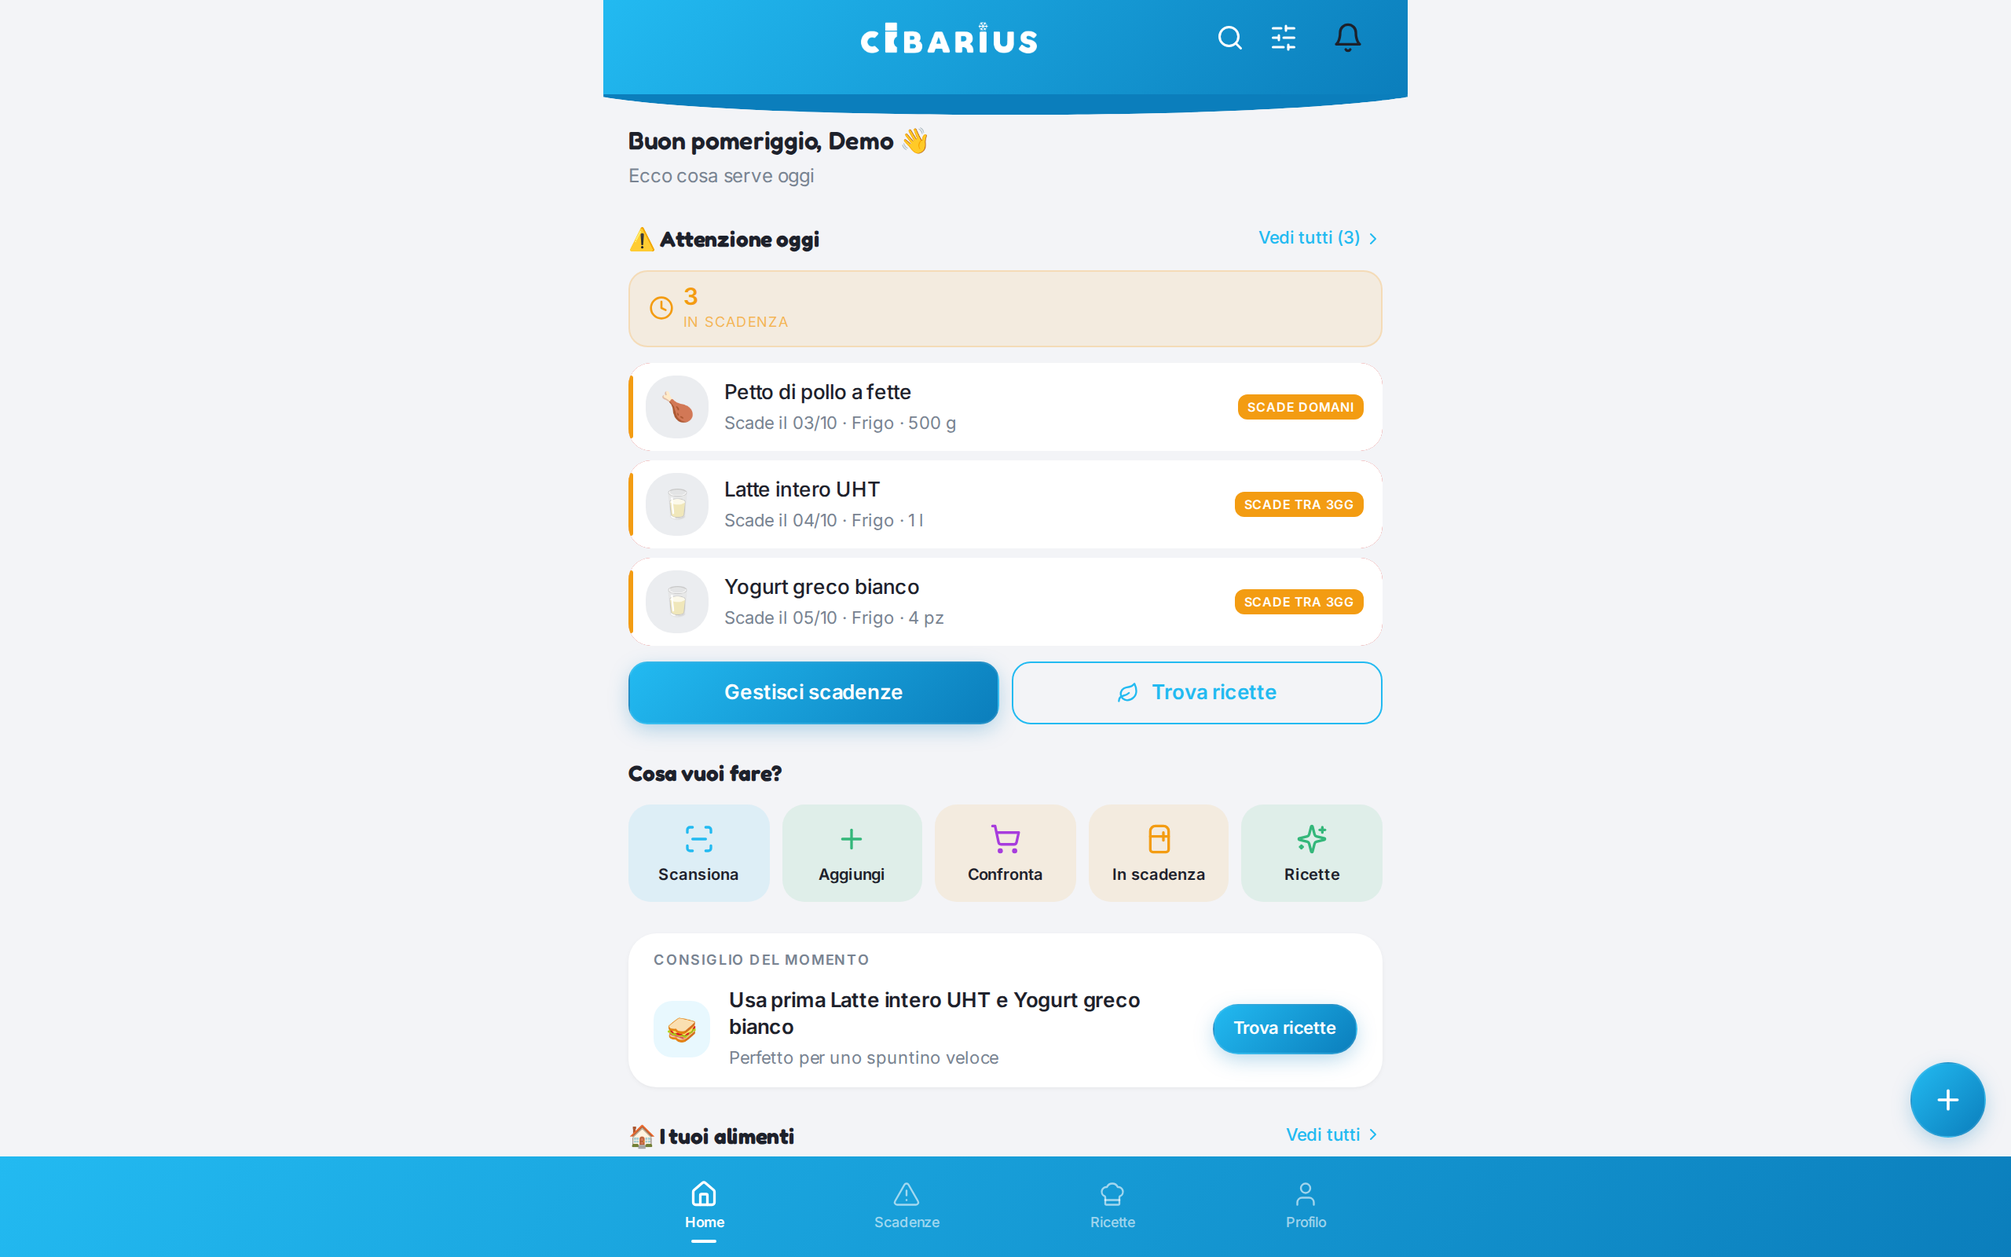
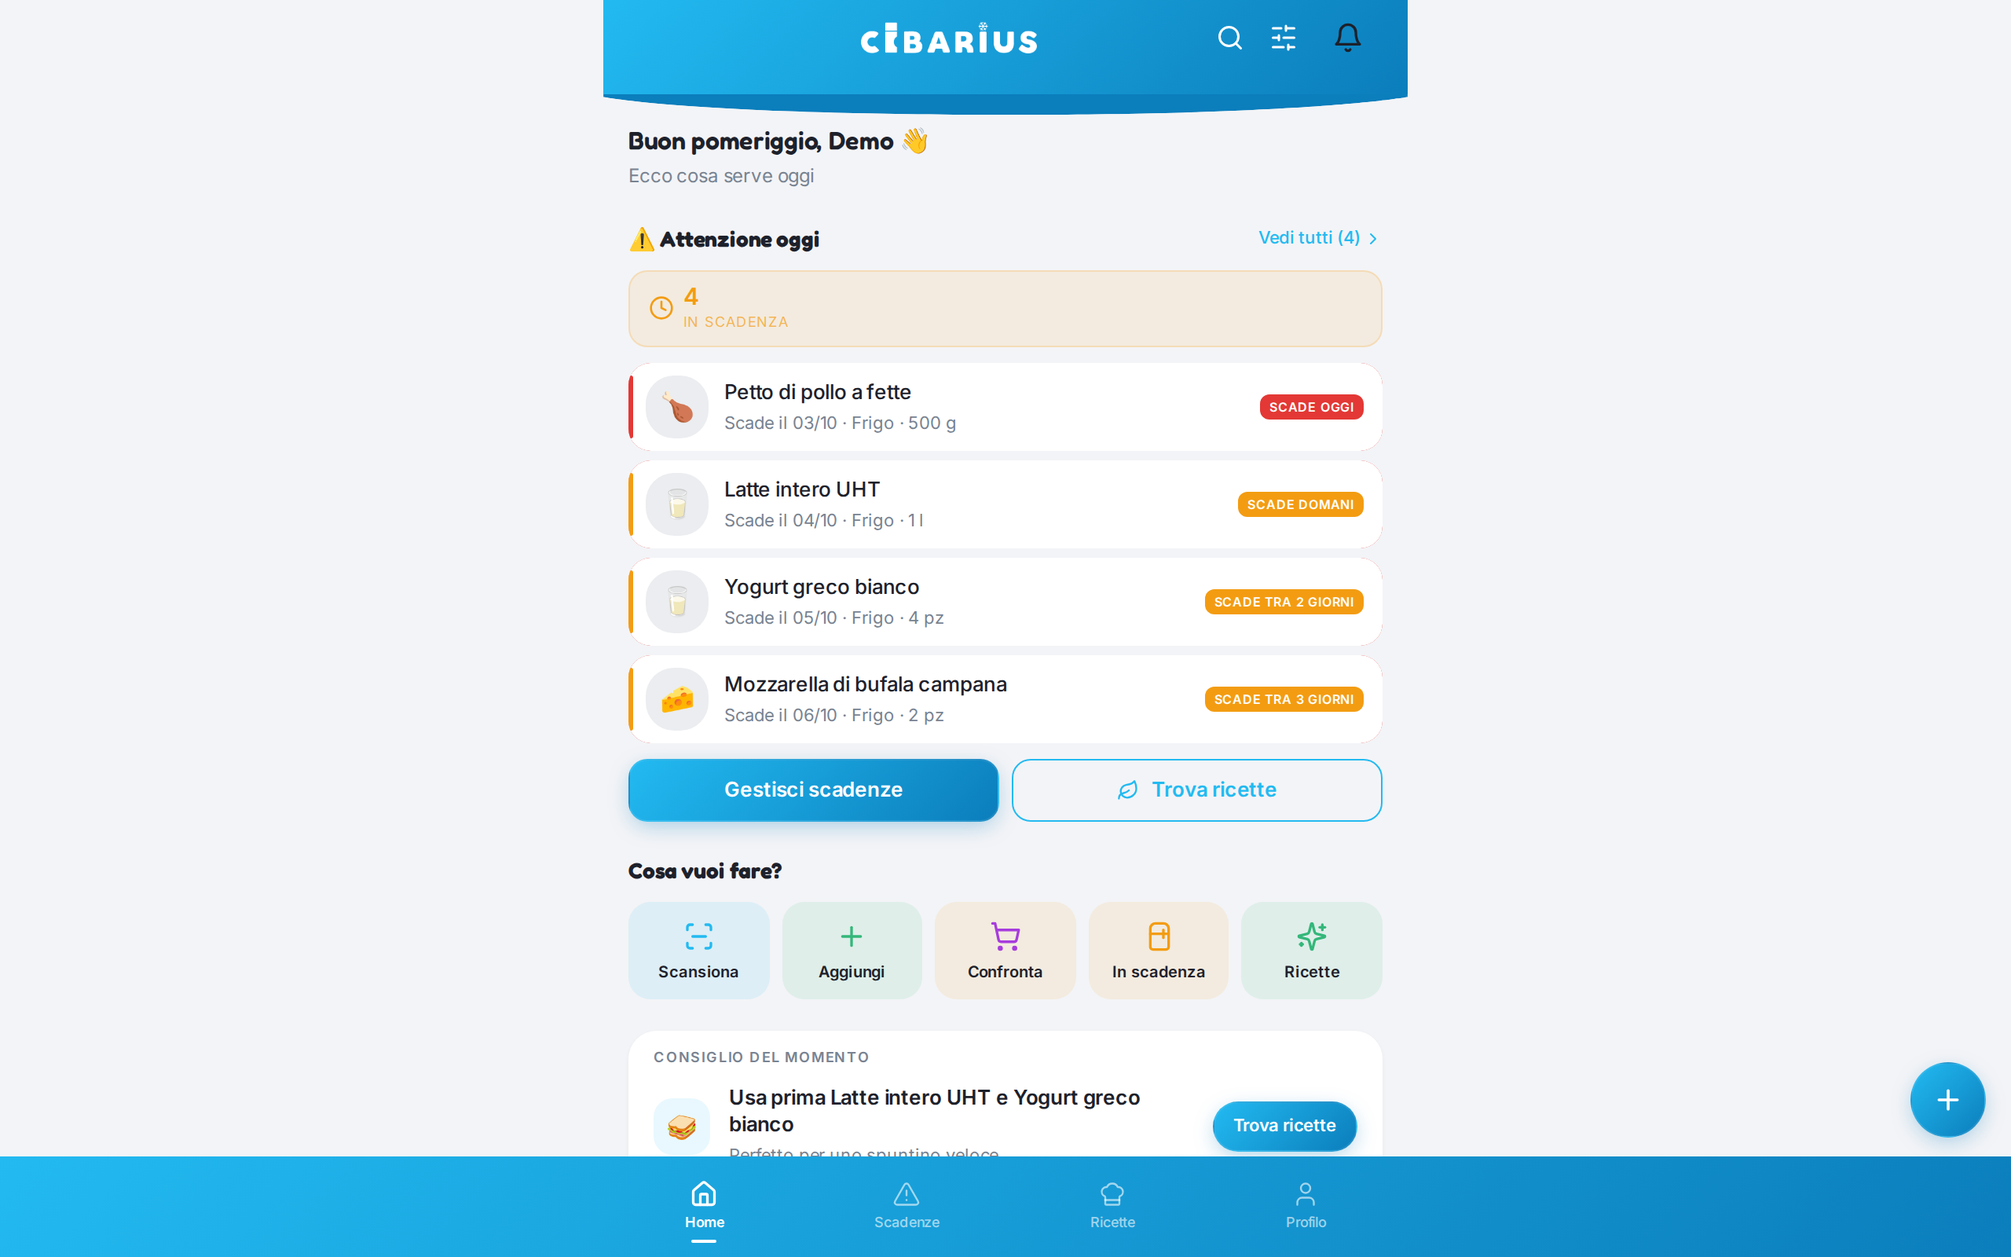
Report funzionale aggiornato dopo le correzioni
Gli screenshot vengono dall'ultimo giro, eseguito sulla versione corretta:
la registrazione atterra su /app, le scadenze raccontano la stessa storia in
tutte le viste, la ricerca trova i prodotti al singolare e il listino del sito
dichiara il piano Premium. La sezione finale elenca i quattro difetti con
causa e correzione, e le migliorie di UX ancora aperte.

diff --git a/report/REPORT_FUNZIONALE.md b/report/REPORT_FUNZIONALE.md
@@ -1,7 +1,12 @@
 # Report funzionale Cibarius
 
-Giro di prova automatico eseguito il 3 ottobre 2026 su `http://127.0.0.1:5182`
-(build di sviluppo Vite del branch `cursor/resend-api-key-e688`).
+Giro di prova automatico eseguito il 3 ottobre 2026 su `http://31.220.82.50:5182`
+(build di sviluppo Vite del branch `cursor/qa-report-funzionale-e688`).
+
+I difetti descritti qui sono stati corretti nello stesso ciclo di lavoro: gli
+screenshot allegati vengono dall'ultimo giro, quello sulla versione corretta.
+Dove il comportamento è cambiato lo trovi segnalato schermata per schermata, e
+il riepilogo delle correzioni è in fondo.
 
 ## 1. Introduzione
 
@@ -43,7 +48,7 @@ di console.
 
 **Esito complessivo: 30 schermate catturate, 0 errori di console e 0 errori
 JavaScript su tutto il percorso.** L'account di prova usato per questo report è
-`demo_tester_1791033759899@example.com`.
+`demo_tester_1791037187943@example.com`.
 
 ### Dati di prova
 
@@ -72,7 +77,7 @@ graph TD
     I --> I1["Passo 1 - Chi sei?"]
     I1 --> I2["Passo 2 - I tuoi dati"]
     I2 --> I3["Account creato, email gia confermata"]
-    I3 -->|"redirect su /"| A
+    I3 -->|"sessione gia aperta"| N
 
     M --> N["App consumer /app"]
 
@@ -216,12 +221,14 @@ registrati.
 | Elemento | Funzione |
 | --- | --- |
 | Piano "A casa — Gratis" | Dispensa/frigo/congelatore, scansione barcode, avvisi email, ricette; pulsante "Crea un account" |
+| Nota sul piano Premium | 2,99 € al mese oppure 29,90 € all'anno, primi 7 giorni gratis: gli stessi importi che l'app chiede alla cassa |
 | Piano "Ristorante — 19,90 € al mese" (badge "Il più scelto") | HACCP, etichette QR, magazzino a lotti, lettura bolle e DDT, backoffice; pulsante "Prova 30 giorni" |
 | Piano "Professionisti — Su misura" | Piani alimentari, diario clienti, note e appuntamenti; pulsante "Parlane con noi" |
 | Nota "Oppure 199 € all'anno" | Alternativa annuale al piano Ristorante |
 
-**Esito test.** ✅ OK — nessun errore di console. Vedi però la nota sulla
-coerenza dei prezzi nelle conclusioni.
+**Esito test.** ✅ OK — nessun errore di console. Questa schermata viene dalla
+versione corretta: prima la pagina si fermava a "Gratis" e del piano Premium,
+che pure esisteva dentro l'app, non diceva nulla.
 
 ---
 
@@ -320,20 +327,22 @@ script, nessun errore di console.
 
 ![Registrazione - esito](./screenshots/11_registrazione_esito.png)
 
-**Descrizione e scopo.** Conferma della creazione dell'account.
+**Descrizione e scopo.** Conferma della creazione dell'account e primo
+ingresso nell'app, con la dispensa ancora vuota.
 
 **Elenco funzionalità.**
 
 | Elemento | Funzione |
 | --- | --- |
 | Avviso "Registrazione completata! 🎉 — Benvenuto in Cibarius! Puoi iniziare subito ad usare l'app." | Conferma a comparsa in basso a destra |
+| Blocco "Attenzione oggi — ✓ Nessuna scadenza urgente" | Stato iniziale, senza prodotti |
+| Contatori "I tuoi alimenti" a zero | Frigo, congelatore e dispensa ancora vuoti |
 
-**Esito test.** ✅ OK per la creazione dell'account (verificata anche lato
-database: utenza presente e email già confermata), ⚠ con riserva sulla
-navigazione. Dopo la registrazione l'app rimanda alla **home del sito pubblico**
-`/` invece che all'app `/app`: il messaggio dice "puoi iniziare subito ad usare
-l'app", ma l'utente si ritrova sulla pagina commerciale e deve cercare da solo
-"Area riservata". Vedi le conclusioni.
+**Esito test.** ✅ OK — account creato (verificato anche lato database: utenza
+presente ed email già confermata) e atterraggio su `/app`. Prima della
+correzione la registrazione rimandava alla home del sito pubblico: il messaggio
+diceva "puoi iniziare subito ad usare l'app" e l'utente si ritrovava sulla
+pagina commerciale a cercare "Area riservata".
 
 ---
 
@@ -386,7 +395,7 @@ una sola domanda: cosa serve fare oggi.
 | Barra superiore: lente, filtri, campanella | Ricerca prodotti, filtri rapidi, notifiche |
 | Saluto contestuale "Buon pomeriggio, Demo 👋" | Personalizzazione con il nome e la fascia oraria |
 | Blocco "Attenzione oggi" con contatore "3 in scadenza" | Riepilogo degli alimenti critici |
-| Righe prodotto con etichetta colorata ("Scade domani", "Scade tra 3gg") | Petto di pollo, Latte intero UHT, Yogurt greco con data, collocazione e quantità |
+| Righe prodotto con etichetta colorata ("Scade oggi", "Scade domani", "Scade tra 2 giorni") | Petto di pollo, Latte intero UHT, Yogurt greco e Mozzarella con data, collocazione e quantità |
 | Link "Vedi tutti (3)" | Apre l'elenco completo delle scadenze |
 | Pulsante "Gestisci scadenze" | Porta a `/expiry` per smaltire o consumare |
 | Pulsante "Trova ricette" | Porta alle ricette anti-spreco |
@@ -396,8 +405,11 @@ una sola domanda: cosa serve fare oggi.
 | Pulsante flottante `+` | Apre il flusso di inserimento prodotto da qualsiasi schermata |
 | Barra inferiore: Home, Scadenze, Ricette, Profilo | Navigazione principale a quattro voci |
 
-**Esito test.** ✅ OK — 27 elementi interattivi rilevati, i dieci prodotti di
-prova correttamente classificati, nessun errore di console.
+**Esito test.** ✅ OK — 28 elementi interattivi rilevati, i dieci prodotti di
+prova correttamente classificati, nessun errore di console. Le etichette ora
+coincidono con quelle delle altre schermate: il petto di pollo che scade oggi è
+marcato "Scade oggi" qui, "in scadenza" nell'elenco e fra gli ingredienti
+disponibili nelle ricette. Prima diceva "Scade domani".
 
 ---
 
@@ -412,15 +424,15 @@ scadenza, con doppio livello di filtri.
 
 | Elemento | Funzione |
 | --- | --- |
-| Filtri di stato con contatore: "Scaduti 0", "In scadenza 3", "Tutti 10" | Selezione per criticità; i contatori sono calcolati sui dati reali |
+| Filtri di stato con contatore: "Scaduti 0", "In scadenza 4", "Tutti 10" | Selezione per criticità; i contatori sono calcolati sui dati reali |
 | Filtri di collocazione: Tutti, Dispensa, Frigo, Congelatore | Selezione per luogo di conservazione |
 | Campo "Cerca prodotto…" | Ricerca testuale nell'elenco |
 | Righe prodotto con bordo colorato e badge "in scadenza" | Nome, data, collocazione e quantità |
 | Pulsante flottante `+` | Aggiunta rapida di un prodotto |
 
-**Esito test.** ✅ OK — i tre prodotti in scadenza sono gli stessi mostrati in
-home, i contatori coincidono con i dieci articoli caricati, nessun errore di
-console.
+**Esito test.** ✅ OK — i quattro prodotti in scadenza sono gli stessi mostrati
+in home e il contatore coincide, cosa che prima non succedeva; il totale torna
+con i dieci articoli caricati. Nessun errore di console.
 
 ---
 
@@ -462,12 +474,11 @@ usata qui per provare la ricerca testuale.
 | Campo di ricerca | Filtra l'elenco mentre si digita |
 | Filtri di stato e di collocazione | Come nella schermata Dispensa |
 | Stato vuoto "Nessun prodotto — Nessun risultato per la tua ricerca." | Messaggio quando il filtro non produce risultati |
+| Confronto tollerante | Trova il prodotto al singolare o al plurale, senza badare ad accenti e ordine delle parole |
 
-**Esito test.** ⚠ Comportamento da rivedere. La ricerca di "pomodoro" non
-restituisce nulla pur essendoci in dispensa "Pomodori pelati": il confronto è una
-sottostringa esatta, quindi singolare e plurale non si incontrano. Nessun errore
-di console: la schermata gestisce correttamente lo stato vuoto, ma il risultato
-non è quello che l'utente si aspetta. Vedi le conclusioni.
+**Esito test.** ✅ OK — la ricerca di "pomodoro" restituisce "Pomodori pelati",
+nessun errore di console. Prima non trovava nulla: il confronto era una
+sottostringa esatta e in italiano singolare e plurale non si incontrano mai.
 
 ---
 
@@ -555,15 +566,15 @@ propone come usarlo.
 | --- | --- |
 | Menu a tendina "Tutto" | Filtro sul tipo di portata |
 | Interruttore "🔥 Priorità scadenze" | Dà precedenza agli ingredienti che stanno per scadere |
-| Intestazione "Ingredienti (9/10)" con scorciatoie "Tutti" / "Nessuno" | Contatore e selezione in blocco |
+| Intestazione "Ingredienti (10/10)" con scorciatoie "Tutti" / "Nessuno" | Contatore e selezione in blocco |
 | Righe ingrediente con segno di spunta | Nome, quantità, collocazione, calorie per 100 g e badge di stato ("Scaduto", "In scadenza") |
 | Pulsante "Genera 3 ricette dalla dispensa" | Avvia la generazione sulle voci selezionate |
 
-**Esito test.** ✅ OK come funzionamento — nove ingredienti su dieci selezionati
-in automatico, quello scaduto escluso, nessun errore di console. ⚠ Emerge però
-un'incoerenza di etichette: il "Petto di pollo a fette", che scade oggi, è
-marcato "Scaduto" qui, "in scadenza" nella pagina Scadenze e "Scade domani" in
-home. Vedi le conclusioni.
+**Esito test.** ✅ OK — gli ingredienti ancora buoni sono selezionati in
+automatico e le etichette coincidono con le altre schermate, nessun errore di
+console. Prima il "Petto di pollo a fette" che scade oggi veniva marcato
+"Scaduto" ed **escluso dalla selezione**: l'ingrediente più urgente era proprio
+quello che restava fuori dalla ricetta che doveva salvarlo.
 
 ---
 
@@ -578,15 +589,17 @@ scadenza, con ricette filtrate e generazione assistita.
 
 | Elemento | Funzione |
 | --- | --- |
-| Riquadro "4 alimenti in scadenza" | Etichette con nome e giorni residui (pollo 1gg, latte 2gg, yogurt 3gg, mozzarella 4gg) |
+| Riquadro "4 alimenti da usare entro 5 giorni" | Etichette con nome e scadenza (pollo oggi, latte domani, yogurt 2 gg, mozzarella 3 gg) |
 | Filtro "Solo in scadenza" | Restringe le ricette a quelle che usano prodotti critici |
 | Scheda "Suggerimenti AI personalizzati" + pulsante "Genera" | Analizza dispensa e scadenze e propone ricette su misura |
 | Stato vuoto "Nessuna ricetta trovata" | Compare quando il catalogo non ha ricette compatibili |
 | Pulsanti "Vai alla dispensa" e "Genera con AI" | Due vie d'uscita dallo stato vuoto |
 
-**Esito test.** ✅ OK — il conteggio degli alimenti in scadenza e i giorni residui
-sono corretti, lo stato vuoto è gestito con due azioni sensate, nessun errore di
-console.
+**Esito test.** ✅ OK — conteggio e giorni residui corretti, stato vuoto gestito
+con due azioni sensate, nessun errore di console. Questa pagina guarda cinque
+giorni invece dei tre usati dagli avvisi, perché le servono abbastanza
+ingredienti per far uscire una ricetta: ora lo scrive nell'intestazione, invece
+di chiamarli "in scadenza" e contraddire il conteggio della home.
 
 ---
 
@@ -691,8 +704,9 @@ con la distinzione fra ciò che è gratuito e ciò che è a pagamento.
 | Piano "Mensile — €2,99/mese" con badge "7gg gratis" | Pulsante "Inizia 7gg gratis" |
 | Piano "Annuale — €29,90" con badge "Più conveniente" | Alternativa annuale |
 
-**Esito test.** ✅ OK — nessun errore di console. Il listino qui mostrato non
-coincide con quello del sito pubblico (vedi conclusioni).
+**Esito test.** ✅ OK — nessun errore di console. Gli importi arrivano dalla
+tabella `subscription_plans`, cioè da quello che Stripe addebita davvero, e ora
+coincidono con quelli annunciati sul sito.
 
 ---
 
@@ -749,7 +763,7 @@ amministrazione, nessun errore di console.
 
 ---
 
-## 4. Conclusioni e suggerimenti
+## 4. Conclusioni, correzioni e suggerimenti
 
 ### Quadro generale
 
@@ -761,41 +775,72 @@ amministrazione. Tutte le schermate reggono bene lo stato vuoto, con messaggi
 che spiegano cosa fare invece di limitarsi a dire che non c'è nulla — un
 dettaglio spesso trascurato e qui curato ovunque.
 
-### Difetti rilevati
+I quattro difetti emersi dal primo giro sono stati corretti e verificati con un
+secondo giro completo sulla versione sistemata.
 
-**1. Stati di scadenza incoerenti fra le schermate.** Il "Petto di pollo a fette"
-con scadenza odierna viene etichettato in tre modi diversi: "Scade domani" in
-home, "in scadenza" nella pagina Scadenze, "Scaduto" nella generazione ricette.
-Tre pagine, tre risposte, e almeno una è sbagliata. La causa più probabile è che
-ogni vista calcoli i giorni residui per conto proprio, con arrotondamenti e
-confronti di data diversi. Conviene estrarre una sola funzione (per esempio
-`getExpiryStatus(expiryDate, today)`) che restituisca stato ed etichetta, e farla
-usare a tutte le viste. È il difetto a maggiore impatto: mina la fiducia
-nell'unica informazione su cui si regge l'app.
+### Difetti rilevati e corretti
 
-**2. La ricerca prodotti non tollera singolare e plurale.** Cercare "pomodoro"
-non trova "Pomodori pelati". Per un'app italiana, dove la differenza fra
-singolare e plurale è continua, una `ILIKE '%termine%'` non basta. Si può
-normalizzare lato client (confronto senza accenti e con troncamento della
-desinenza) oppure, lato Postgres, usare `pg_trgm` con un indice GIN e ordinare
-per similarità. Quest'ultima strada risolve anche i refusi di battitura.
+**1. Stati di scadenza incoerenti fra le schermate.** Il "Petto di pollo a
+fette" con scadenza odierna veniva etichettato in tre modi diversi: "Scade
+domani" in home, "in scadenza" nella pagina Scadenze, "Scaduto" nella
+generazione ricette — dove per di più finiva *escluso* dalla selezione, cioè
+l'ingrediente più urgente era l'unico a restare fuori dalla ricetta che doveva
+salvarlo.
 
-**3. Dopo la registrazione si finisce sul sito pubblico.** L'avviso dice "puoi
-iniziare subito ad usare l'app", ma la navigazione porta a `/`, cioè alla pagina
-commerciale, e l'utente deve trovare da sé "Area riservata". Poiché la
-registrazione lascia già la sessione aperta e l'email risulta confermata, il
-passaggio naturale è un redirect diretto su `USER_HOME` (o sulla home del ruolo
-scelto), eventualmente con il tour di benvenuto come primo contatto.
+La causa non era l'arrotondamento ma il fuso orario: `new Date("2026-10-03")`
+produce la mezzanotte **UTC**, che veniva confrontata con la mezzanotte
+**locale**. In Italia, due ore avanti, il conto slittava di un giorno. Sopra ci
+si erano stratificati tre modi diversi di arrotondare: `Math.ceil` dalla
+mezzanotte in home, una divisione senza arrotondamento nell'elenco, la
+differenza da `Date.now()` nelle ricette.
+
+```
+mezzanotte locale  2026-10-02T22:00:00Z
+new Date("2026-10-03")  2026-10-03T00:00:00Z   <- due ore avanti
+
+home        Math.ceil(0,083) = 1   -> "Scade domani"
+elenco      0,083                  -> "in scadenza"
+ricette     -0,58 da Date.now()    -> "Scaduto"
+```
+
+Ora `src/lib/expiry-status.ts` legge le date come mezzanotte locale e arrotonda
+una volta sola; le dodici reimplementazioni sparse fra app consumer, area
+ristorante e suite professionale chiamano lui. Il modulo copre anche il
+passaggio all'ora legale, dove fra due giorni consecutivi passano 23 o 25 ore.
+Tredici test lo verificano, incluso il caso che ha prodotto il difetto.
+
+**2. La ricerca prodotti non tollerava singolare e plurale.** Cercare "pomodoro"
+non trovava "Pomodori pelati". Per un'app italiana, dove la differenza fra
+singolare e plurale è continua, il confronto per sottostringa esatta non basta.
+
+`src/lib/text-match.ts` normalizza il testo (minuscole, via gli accenti e la
+punteggiatura) e confronta ogni parola anche nelle sue forme singolare e
+plurale, accettando le parole in ordine diverso da quello dell'etichetta. Le
+desinenze velari hanno la precedenza sulla regola generale, altrimenti da
+"pesca" uscirebbe "pesce": è il motivo per cui le varianti si generano una
+desinenza alla volta invece di troncare la parola a una radice comune.
+
+**3. Dopo la registrazione si finiva sul sito pubblico.** L'avviso diceva "puoi
+iniziare subito ad usare l'app" ma la navigazione portava a `/`, la pagina
+commerciale, e l'utente doveva trovare da sé "Area riservata" — pur avendo già
+una sessione aperta. Ora la registrazione porta alla home del ruolo scelto. Se
+in futuro la conferma via email venisse richiesta, e quindi la sessione non
+fosse ancora aperta, l'utente viene mandato al login con un messaggio che glielo
+dice, invece di sbattere contro una guardia di autenticazione.
 
 **4. Due listini diversi per lo stesso prodotto.** La pagina pubblica `/prezzi`
-descrive l'uso domestico come "Gratis", mentre dentro l'app `/subscription`
-propone un piano Mensile a 2,99 € e uno Annuale a 29,90 € con sette giorni di
-prova. Le due cose possono convivere (gratuito di base, Premium a pagamento), ma
-così come sono scritte si contraddicono: chi arriva dal sito non si aspetta un
-paywall. Conviene allineare i testi e citare il Premium anche sulla pagina
-pubblica.
+descriveva l'uso domestico come "Gratis" e basta, mentre dentro l'app compariva
+un piano a 2,99 € al mese di cui il sito non diceva nulla: chi arrivava da lì
+non si aspettava un paywall. Ora il piano Premium compare sul sito con gli
+importi veri, il periodo di prova e lo stesso nome che usa l'app, e le cifre
+stanno in `src/lib/pricing.ts` invece di essere ripetute in quattro pagine.
+Dentro l'app i prezzi continuano ad arrivare da `subscription_plans`, che resta
+la sola fonte usata per incassare.
 
-### Migliorie di UX suggerite
+### Migliorie di UX ancora aperte
+
+Queste non sono state toccate: sono scelte di prodotto più che difetti, e vale
+la pena decidano le persone.
 
 **Sfruttare lo spazio sugli schermi larghi.** A 1280×800 l'app consumer resta una
 colonna stretta al centro, con ampi margini vuoti ai lati. La scelta
@@ -835,14 +880,14 @@ annotarli, perché si ripresenteranno a chiunque automatizzi questa app:
   `cibarius_tour_done` prima del caricamento della pagina.
 - **La sessione Supabase vive in `localStorage`, non nei cookie.** Cancellare i
   cookie non disconnette: per fotografare la pagina di accesso serve un contesto
-  browser nuovo (è la strada scelta) oppure lo svuotamento esplicito di
-  `localStorage`.
+  browser nuovo, che è la strada scelta dallo script.
 
 ### Come riprodurre
 
 ```bash
-npm run dev -- --port 5182        # server di sviluppo
-node scripts/auto_test_report.js  # giro completo con screenshot
+npm run dev -- --port 5182 --host 0.0.0.0   # server di sviluppo
+node scripts/auto_test_report.js            # giro completo con screenshot
+npx vitest run                              # i test dei moduli condivisi
 ```
 
 Lo script accetta `BASE_URL`, `DEMO_EMAIL`, `DEMO_PASSWORD` e `SKIP_SIGNUP=1`
@@ -854,7 +899,7 @@ L'account usato per questo report è rimasto attivo per permettere di verificare
 i rilievi. Per rimuoverlo insieme ai dieci prodotti dimostrativi:
 
 ```sql
-delete from auth.users where email = 'demo_tester_1791033759899@example.com';
+delete from auth.users where email like 'demo_tester_%@example.com';
 delete from public.products
  where data_source = 'manual'
    and name in ('Latte intero UHT','Yogurt greco bianco','Mozzarella di bufala campana',
